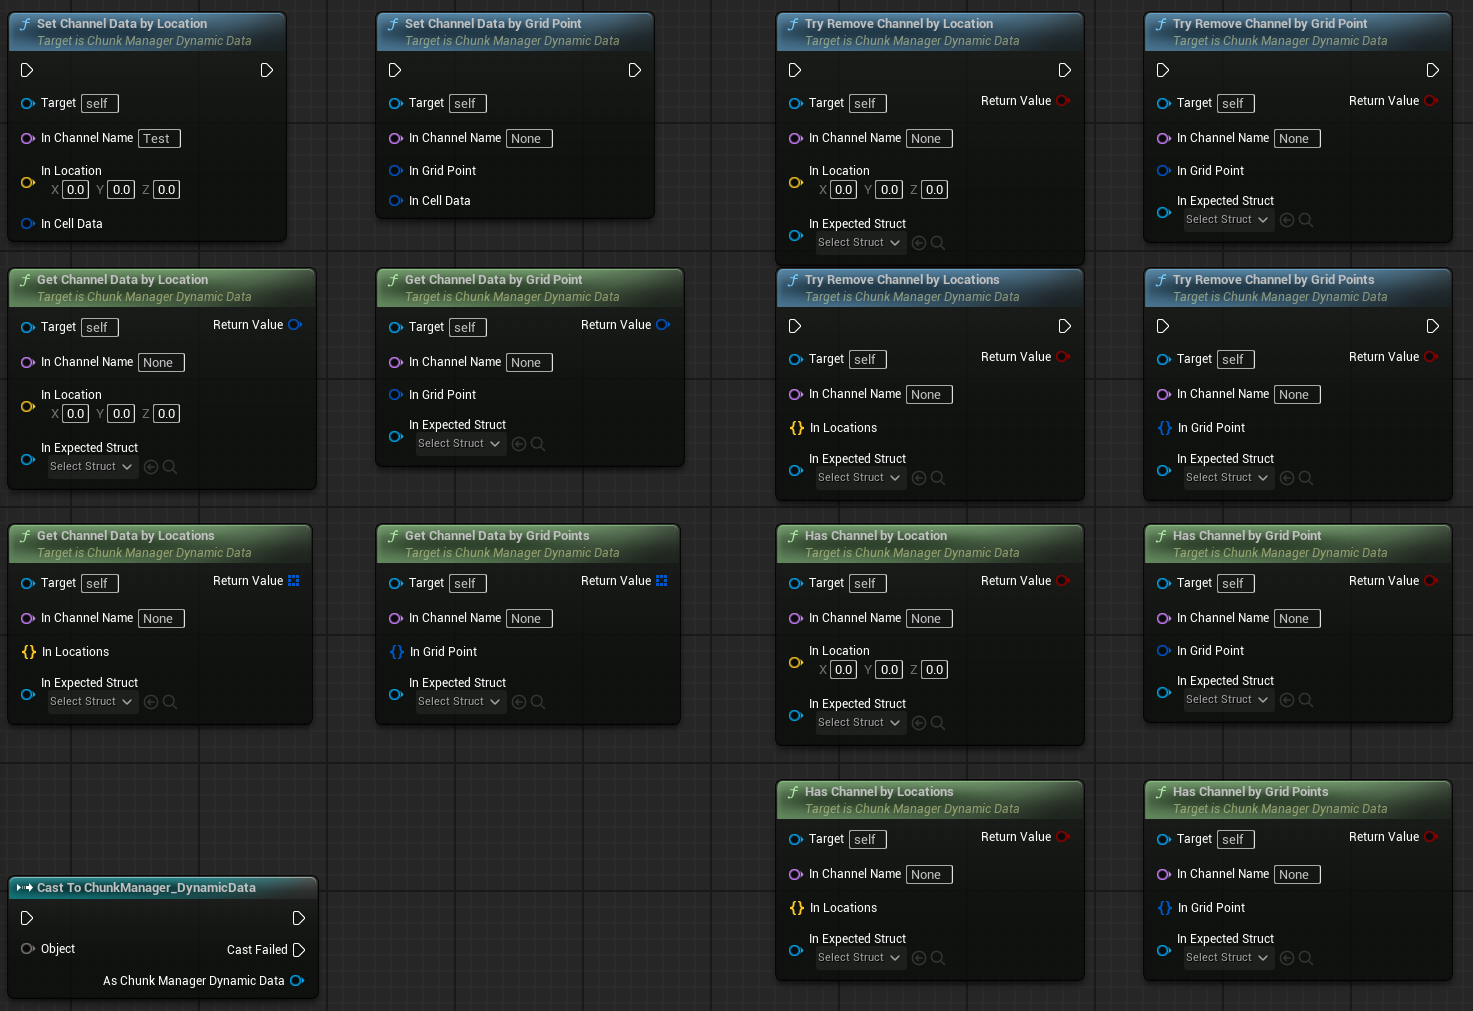
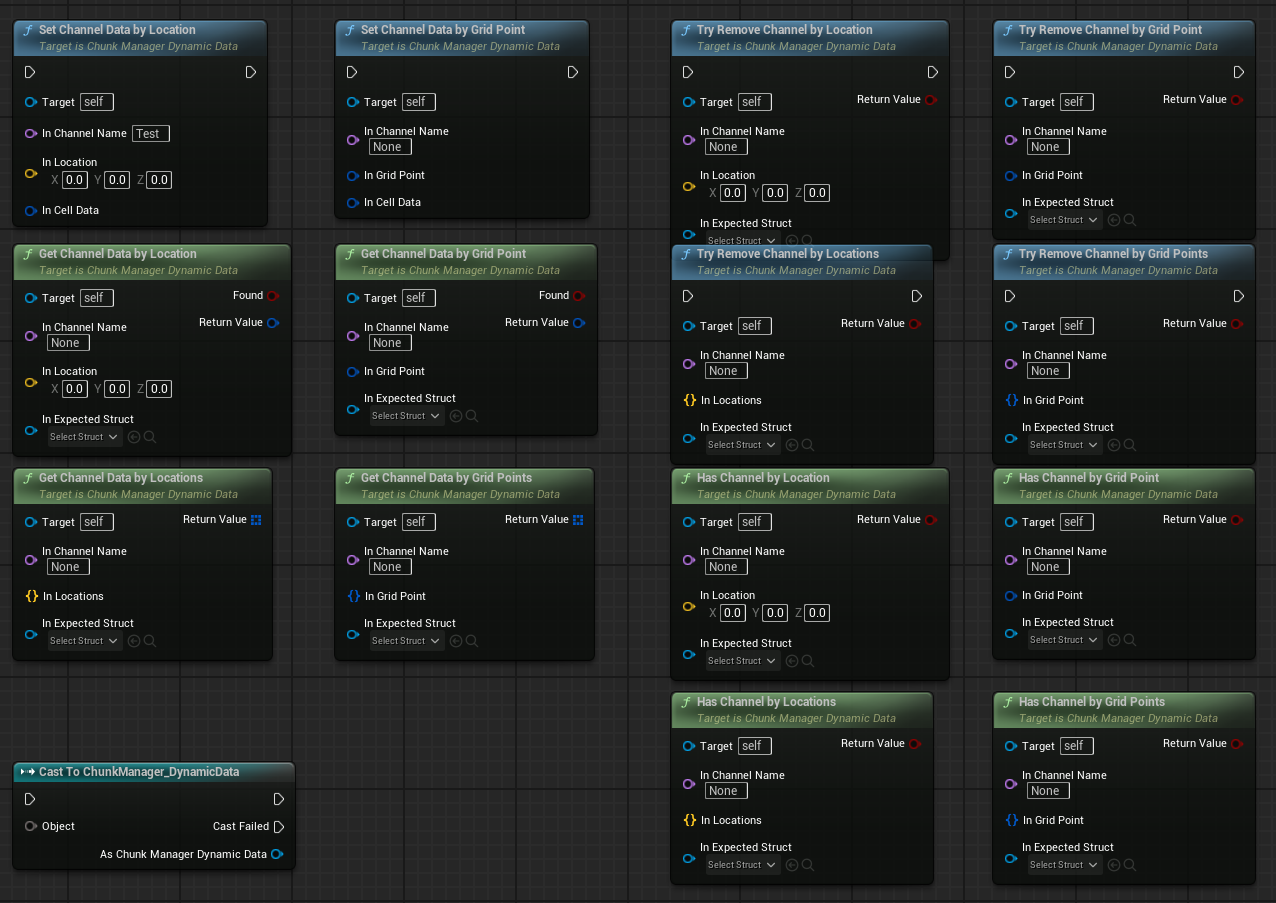
Update

diff --git a/Source/SimpleChunkSystem/Public/System/ChunkSystem_DynamicData.h b/Source/SimpleChunkSystem/Public/System/ChunkSystem_DynamicData.h
@@ -28,6 +28,60 @@ public:
 
 public:
 	template <typename TStruct>
+	FORCEINLINE FInstancedStruct* GetChannel(const FName Name, const FVector& InLocation)
+	{
+		const FIntPoint GridPoint = this->ConvertWorldToGridFunc(this->GetWorld(), InLocation);
+		return GetChannel<TStruct>(Name, GridPoint);
+	}
+
+	template <typename TStruct>
+	FORCEINLINE FInstancedStruct* GetChannel(const FName Name, const FIntPoint& InGridPoint)
+	{
+		const FIntPoint ChunkPoint = this->ConvertGlobalToChunkGrid(InGridPoint);
+		if (!this->Chunks.Contains(ChunkPoint))
+		{
+			SCHUNK_LOG(LogSChunkSystemLocal_DynamicData, Log, TEXT("Chunk does not exist at %s"),
+			           *ChunkPoint.ToString());
+			return nullptr;
+		}
+
+		if (!HasChannel<TStruct>(Name, InGridPoint))
+		{
+			SCHUNK_LOG(LogSChunkSystemLocal_DynamicData, Log, TEXT("Channel '%s' of type '%s' does not exist at %s"),
+			           *Name.ToString(), *TStruct::StaticStruct()->GetName(), *InGridPoint.ToString());
+			return nullptr;
+		}
+
+		return &this->Chunks[ChunkPoint]->FindOrAddChannel<TStruct>(Name, InGridPoint);
+	}
+
+	FORCEINLINE FInstancedStruct* GetChannel(const FName Name, const FVector& InLocation, UScriptStruct* Type)
+	{
+		const FIntPoint GridPoint = this->ConvertWorldToGridFunc(this->GetWorld(), InLocation);
+		return GetChannel(Name, GridPoint, Type);
+	}
+
+	FORCEINLINE FInstancedStruct* GetChannel(const FName Name, const FIntPoint& InGridPoint, UScriptStruct* Type)
+	{
+		const FIntPoint ChunkPoint = this->ConvertGlobalToChunkGrid(InGridPoint);
+		if (!this->Chunks.Contains(ChunkPoint))
+		{
+			SCHUNK_LOG(LogSChunkSystemLocal_DynamicData, Log, TEXT("Chunk does not exist at %s"),
+			           *ChunkPoint.ToString());
+			return nullptr;
+		}
+
+		if (!HasChannel(Name, InGridPoint, Type))
+		{
+			SCHUNK_LOG(LogSChunkSystemLocal_DynamicData, Log, TEXT("Channel '%s' of type '%s' does not exist at %s"),
+			           *Name.ToString(), *Type->GetName(), *InGridPoint.ToString());
+			return nullptr;
+		}
+
+		return &this->Chunks[ChunkPoint]->FindOrAddChannel(Name, InGridPoint, Type);
+	}
+
+	template <typename TStruct>
 	FORCEINLINE FInstancedStruct& FindOrAddChannel(const FName Name, const FVector& InLocation)
 	{
 		const FIntPoint GridPoint = this->ConvertWorldToGridFunc(this->GetWorld(), InLocation);
@@ -40,7 +94,7 @@ public:
 		const FIntPoint ChunkPoint = this->ConvertGlobalToChunkGrid(InGridPoint);
 		this->TryMakeChunk(ChunkPoint);
 
-		return this->Chunks[ChunkPoint].FindOrAddChannel<TStruct>(Name, InGridPoint);
+		return this->Chunks[ChunkPoint]->FindOrAddChannel<TStruct>(Name, InGridPoint);
 	}
 
 	FORCEINLINE FInstancedStruct& FindOrAddChannel(const FName Name, const FVector& InLocation, UScriptStruct* Type)
@@ -54,7 +108,7 @@ public:
 		const FIntPoint ChunkPoint = this->ConvertGlobalToChunkGrid(InGridPoint);
 		this->TryMakeChunk(ChunkPoint);
 
-		return this->Chunks[ChunkPoint].FindOrAddChannel(Name, InGridPoint, Type);
+		return this->Chunks[ChunkPoint]->FindOrAddChannel(Name, InGridPoint, Type);
 	}
 
 	template <typename TStruct>
@@ -84,7 +138,7 @@ public:
 
 			for (const FIntPoint& Point : GridPoints)
 			{
-				Channels.Add(&this->Chunks[ChunkPoint].FindOrAddChannel<TStruct>(Name, Point));
+				Channels.Add(&this->Chunks[ChunkPoint]->FindOrAddChannel<TStruct>(Name, Point));
 			}
 		}
 
@@ -116,7 +170,7 @@ public:
 
 			for (const FIntPoint& Point : GridPoints)
 			{
-				Channels.Add(&this->Chunks[ChunkPoint].FindOrAddChannel(Name, Point, Type));
+				Channels.Add(&this->Chunks[ChunkPoint]->FindOrAddChannel(Name, Point, Type));
 			}
 		}
 
@@ -140,7 +194,7 @@ public:
 			return false;
 		}
 
-		return this->Chunks[ChunkPoint].TryRemoveChannel<TStruct>(Name, InGridLocation);
+		return this->Chunks[ChunkPoint]->TryRemoveChannel<TStruct>(Name, InGridLocation);
 	}
 
 	FORCEINLINE bool TryRemoveChannel(const FName Name, const FVector& InLocation, UScriptStruct* Type)
@@ -158,7 +212,7 @@ public:
 			return false;
 		}
 
-		return this->Chunks[ChunkPoint].TryRemoveChannel(Name, InGridLocation, Type);
+		return this->Chunks[ChunkPoint]->TryRemoveChannel(Name, InGridLocation, Type);
 	}
 
 	template <typename TStruct>
@@ -191,7 +245,7 @@ public:
 
 			for (const FIntPoint& Point : GridPoints)
 			{
-				bRemoved |= this->Chunks[ChunkPoint].TryRemoveChannel<TStruct>(Name, Point);
+				bRemoved |= this->Chunks[ChunkPoint]->TryRemoveChannel<TStruct>(Name, Point);
 			}
 		}
 
@@ -226,7 +280,7 @@ public:
 
 			for (const FIntPoint& Point : GridPoints)
 			{
-				bRemoved |= this->Chunks[ChunkPoint].TryRemoveChannel(Name, Point, Type);
+				bRemoved |= this->Chunks[ChunkPoint]->TryRemoveChannel(Name, Point, Type);
 			}
 		}
 
@@ -244,7 +298,7 @@ public:
 	FORCEINLINE bool HasChannel(const FName Name, const FIntPoint& InGridLocation) const
 	{
 		const FIntPoint ChunkPoint = this->ConvertGlobalToChunkGrid(InGridLocation);
-		return this->Chunks[ChunkPoint].HasChannel<TStruct>(Name, InGridLocation);
+		return this->Chunks[ChunkPoint]->HasChannel<TStruct>(Name, InGridLocation);
 	}
 
 	FORCEINLINE bool HasChannel(const FName Name, const FVector& InLocation, UScriptStruct* Type) const
@@ -262,7 +316,7 @@ public:
 			return false;
 		}
 
-		return this->Chunks[ChunkPoint].HasChannel(Name, InGridLocation, Type);
+		return this->Chunks[ChunkPoint]->HasChannel(Name, InGridLocation, Type);
 	}
 
 	template <typename TStruct>
@@ -294,7 +348,7 @@ public:
 
 			for (const FIntPoint& Point : GridPoints)
 			{
-				if (!this->Chunks[ChunkPoint].HasChannel<TStruct>(Name, Point))
+				if (!this->Chunks[ChunkPoint]->HasChannel<TStruct>(Name, Point))
 				{
 					return false;
 				}
@@ -331,7 +385,7 @@ public:
 
 			for (const FIntPoint& Point : GridPoints)
 			{
-				if (!this->Chunks[ChunkPoint].HasChannel(Name, Point, Type))
+				if (!this->Chunks[ChunkPoint]->HasChannel(Name, Point, Type))
 				{
 					return false;
 				}

diff --git a/Source/SimpleChunkSystem/Private/Manager/ChunkManager_DynamicData.cpp b/Source/SimpleChunkSystem/Private/Manager/ChunkManager_DynamicData.cpp
@@ -73,8 +73,11 @@ void UChunkManager_DynamicData::SetChannelDataByGridPoint(const FName InChannelN
 
 FInstancedStruct UChunkManager_DynamicData::GetChannelDataByLocation(const FName InChannelName,
                                                                      const FVector InLocation,
-                                                                     UScriptStruct* InExpectedStruct) const
+                                                                     UScriptStruct* InExpectedStruct,
+                                                                     bool& bFound) const
 {
+	bFound = false;
+
 	if (!ChunkSystem_DynamicData)
 	{
 		SCHUNK_LOG(LogSChunkManager_DynamicData, Warning, TEXT("Chunk system not initialized."));
@@ -87,13 +90,26 @@ FInstancedStruct UChunkManager_DynamicData::GetChannelDataByLocation(const FName
 		return FInstancedStruct();
 	}
 
-	return ChunkSystem_DynamicData->FindOrAddChannel(InChannelName, InLocation, InExpectedStruct);
+	FInstancedStruct* InstancedPtr = ChunkSystem_DynamicData->GetChannel(InChannelName, InLocation, InExpectedStruct);
+	if (!InstancedPtr)
+	{
+		SCHUNK_LOG(LogSChunkManager_DynamicData, Log,
+		         TEXT("Channel '%s' of type '%s' does not exist at location %s"),
+		         *InChannelName.ToString(), *InExpectedStruct->GetName(), *InLocation.ToString());
+		return FInstancedStruct();
+	}
+
+	bFound = true;
+	return *InstancedPtr;
 }
 
 FInstancedStruct UChunkManager_DynamicData::GetChannelDataByGridPoint(const FName InChannelName,
                                                                       const FIntPoint InGridPoint,
-                                                                      UScriptStruct* InExpectedStruct) const
+                                                                      UScriptStruct* InExpectedStruct,
+                                                                      bool& bFound) const
 {
+	bFound = false;
+
 	if (!ChunkSystem_DynamicData)
 	{
 		SCHUNK_LOG(LogSChunkManager_DynamicData, Warning, TEXT("Chunk system not initialized."));
@@ -106,7 +122,17 @@ FInstancedStruct UChunkManager_DynamicData::GetChannelDataByGridPoint(const FNam
 		return FInstancedStruct();
 	}
 
-	return ChunkSystem_DynamicData->FindOrAddChannel(InChannelName, InGridPoint, InExpectedStruct);
+	FInstancedStruct* InstancedPtr = ChunkSystem_DynamicData->GetChannel(InChannelName, InGridPoint, InExpectedStruct);
+	if (!InstancedPtr)
+	{
+		SCHUNK_LOG(LogSChunkManager_DynamicData, Log,
+				 TEXT("Channel '%s' of type '%s' does not exist at Point %s"),
+				 *InChannelName.ToString(), *InExpectedStruct->GetName(), *InGridPoint.ToString());
+		return FInstancedStruct();
+	}
+
+	bFound = true;
+	return *InstancedPtr;
 }
 
 TArray<FInstancedStruct> UChunkManager_DynamicData::GetChannelDataByLocations(const FName InChannelName,

diff --git a/Source/SimpleChunkSystem/Public/System/ChunkSystem.h b/Source/SimpleChunkSystem/Public/System/ChunkSystem.h
@@ -31,6 +31,8 @@ class SIMPLECHUNKSYSTEM_API FChunkSystemBase
 
 	friend class FChunk_DivFloorTest;
 
+	using FChunkPtr = TSharedPtr<Type, ESPMode::ThreadSafe>;
+
 protected:
 	TFunction<FIntPoint(const UObject*, const FVector&)> ConvertWorldToGridFunc = FuncConv;
 
@@ -79,19 +81,19 @@ public:
 				Type Value(FIntPoint::ZeroValue, FIntPoint::ZeroValue);
 				Value.Serialize(Ar);
 
-				Chunks.Add(Key, Value);
+				Chunks.Emplace(Key, MakeShared<Type, ESPMode::ThreadSafe>(Value));
 			}
 		}
 
 		if (Ar.IsSaving())
 		{
-			for (TPair<FIntPoint, Type>& Iter : Chunks)
+			for (TPair<FIntPoint, FChunkPtr>& Iter : Chunks)
 			{
 				FIntPoint Key = Iter.Key;
-				Type& Value = Iter.Value;
+				FChunkPtr& Value = Iter.Value;
 
 				Key.Serialize(Ar);
-				Value.Serialize(Ar);
+				Value.Get()->Serialize(Ar);
 			}
 		}
 	}
@@ -143,7 +145,7 @@ protected:
 		FIntPoint TopLeft, BottomRight;
 		GetChunkBounds(InChunkGridLocation, TopLeft, BottomRight);
 
-		Chunks.Emplace(InChunkGridLocation, Type(TopLeft, BottomRight));
+		Chunks.Emplace(InChunkGridLocation, MakeShared<Type, ESPMode::ThreadSafe>(TopLeft, BottomRight));
 		return true;
 	}
 
@@ -212,7 +214,7 @@ protected:
 	}
 
 protected:
-	TMap<FIntPoint, Type> Chunks;
+	TMap<FIntPoint, FChunkPtr> Chunks;
 
 private:
 	FORCEINLINE int32 DivFloor(const int32 Value, const int32 Divisor) const

diff --git a/Source/SimpleChunkSystem/Public/Manager/ChunkManager_DynamicData.h b/Source/SimpleChunkSystem/Public/Manager/ChunkManager_DynamicData.h
@@ -48,10 +48,10 @@ public:
 	void SetChannelDataByGridPoint(const FName InChannelName, const FIntPoint InGridPoint, const FInstancedStruct& InCellData);
 
 	UFUNCTION(BlueprintCallable, Category = "Chunk Manager")
-	FInstancedStruct GetChannelDataByLocation(const FName InChannelName, const FVector InLocation, UScriptStruct* InExpectedStruct) const;
+	FInstancedStruct GetChannelDataByLocation(const FName InChannelName, const FVector InLocation, UScriptStruct* InExpectedStruct, bool& bFound) const;
 
 	UFUNCTION(BlueprintCallable, Category = "Chunk Manager")
-	FInstancedStruct GetChannelDataByGridPoint(const FName InChannelName, const FIntPoint InGridPoint, UScriptStruct* InExpectedStruct) const;
+	FInstancedStruct GetChannelDataByGridPoint(const FName InChannelName, const FIntPoint InGridPoint, UScriptStruct* InExpectedStruct, bool& bFound) const;
 
 	UFUNCTION(BlueprintCallable, Category = "Chunk Manager")
 	TArray<FInstancedStruct> GetChannelDataByLocations(const FName InChannelName, const TSet<FVector>& InLocations, UScriptStruct* InExpectedStruct) const;
